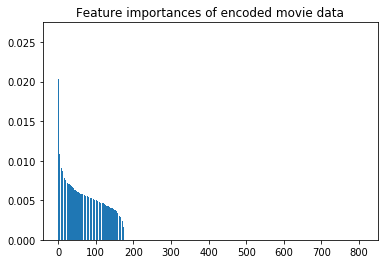
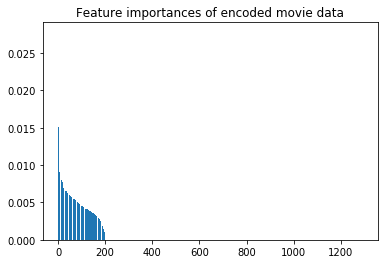
Updating film success writeup

diff --git a/_posts/insights/2019-08-05-Predicting-Film-Success.md b/_posts/insights/2019-08-05-Predicting-Film-Success.md
@@ -14,6 +14,7 @@ I trained a model on a randomized 90% of the movies, and then tested it on the r
 
 * **It was a simple challenge to get a very good prediction of film revenue**. R^2 = 0.77. In simple terms, this is not a perfect prediction, but very good. Certainly good enough for a cinema to decide ahead of time whether to show a film for an extended period of time, for instance.
 * **It was much more difficult to predict film rating**, but I could do a fair bit better than if I had just predicted an average rating for each movie, getting an R^2 of 0.53.
+* Film crew, while initially discarded, turned out to be the difference in a bad and a good film rating prediction. Crew members are more important to both the revenue prediction and rating predictio models than cast. 
 * I had some fun, too. Scroll down for a **list of actors most associated with high rated and top grossing films**.
 
 ![Revenue predictions](../images/insights/predicting_film_success_2019_08_05/revenue_predictions.png "Revenue predictions")
@@ -99,35 +100,33 @@ An output from the XGBoost library provides the importance of variables it uses 
 
 ![Rating feature importances](../images/insights/predicting_film_success_2019_08_05/feature_importances_rating.png "Rating feature importances")
 
-Here, we can see only around 180 of the input variables held any importance at all. Ther rest were essentially discarded by the algorithm. That's ok! In future, I would just run the variables through an analysis ([LDA](https://en.wikipedia.org/wiki/Latent_Dirichlet_allocation)
+Here, we can see only around 200 of the input variables held any importance at all. Ther rest were essentially discarded by the algorithm. That's ok! In future, I would just run the variables through an analysis ([LDA](https://en.wikipedia.org/wiki/Latent_Dirichlet_allocation)
 ?) in advance to pick out those with no correlation to film rating.
 
-In text form, the variables most associated with film rating were as follows. _Disclaimer: These can just as well be NEGATIVELY affecting the rating, as a cynic might pick up from a couple of the names (Romance, witch, Constantin Film Produktion). The algorithm just returns the ones with the largest effect on its predictor._
-
-I am still stumped by the strong link with the "father son relationship" keyword! If anyone has a good explanation, please email me!
+In text form, the variables most associated with film rating were as follows. _Disclaimer: These can just as well be NEGATIVELY affecting the rating, as a cynic might pick up from a couple of the names (teenager, horror). The algorithm just returns the ones with the largest effect on its predictor._
 
 ~~~~
-('father son relationship', 0.026174808)
-('independent film', 0.02035883)
-('Fox Searchlight Pictures', 0.019562881)
-('Michael Madsen', 0.01150904)
-('remake', 0.010837264)
-('Fantasy', 0.010430015)
-('Elijah Wood', 0.010411793)
-('UK Film Council', 0.009918339)
-('Canal+', 0.009511254)
-('Millennium Films', 0.009015981)
-('Romance', 0.0089491205)
-('Runtime', 0.008907374)
-('witch', 0.0087549)
-('Constantin Film Produktion', 0.008523767)
-('Foreign', 0.008085604)
-('Film budget', 0.007986463)
-('Day of the year', 0.0078098746)
-('paris', 0.007778621)
-('Pixar Animation Studios', 0.00775067)
-('Vince Vaughn', 0.007628271)
-('Luke Wilson', 0.0075204046)
+('Drama', 0.02771771)
+('Film runtime', 0.017870583) - !
+('Horror', 0.015099976)
+('Animation', 0.010213515)
+('John Lasseter', 0.0099559575) - of Pixar fame
+('family', 0.009091541)
+('Comedy', 0.009024642)
+('Harvey Weinstein', 0.009003568)
+('Whoopi Goldberg', 0.008995796) - ?!
+('Bill Murray', 0.008862046)
+('Action', 0.008832617)
+('Documentary', 0.008824027)
+('Morgan Creek Productions', 0.008456202)
+('Franchise Pictures', 0.008374982)
+('Hans Zimmer', 0.008047262)
+('DreamWorks Animation', 0.007945064)
+('hospital', 0.007892966)
+('Janet Hirshenson', 0.007849025)
+('Jason Friedberg', 0.007827318)
+('en', 0.0077783377) - English movies
+('teenager', 0.0077319876)
 ~~~~
 
 Predicting film revenue - an easier task
@@ -148,32 +147,30 @@ What are the variables most associated with film **revenue**?
 ------
 This list will be less of a surprise. Again, though, the same disclaimer applies. Variables can be negatively affecting revenue, and this model is not perfect. The list confirms the strong connection between budget and revenue. After all, why would one be making films if you did not get return on your investment? 
 
-Unsurprisingly, superhero movies and pixar movies make a strong appearance here, with their keywords, studios, genres and actors dominating the list. Note - this list excludes top-contributing crew, as I made the list before including crew members as input.
-
-Surprisingly, 'dying and death.'
+Unsurprisingly, superhero movies and pixar movies make a strong appearance here, with their keywords, studios, genres and crew dominating the list.
 
 ~~~~
-('Film budget', 0.044391543)
-('Robert Downey Jr.', 0.027033819)
-('Pixar Animation Studios', 0.026760902)
-('superhero', 0.025424734)
-('Judi Dench', 0.022775456)
-('Zoe Saldana', 0.018396903)
-('3d', 0.017599344)
-('Adventure', 0.015867993)
-('based on comic book', 0.015653472)
-('Dune Entertainment', 0.01459572)
-('suspense', 0.014268756)
-('duringcreditsstinger', 0.0127963945)
-('Frank Welker', 0.012037063)
-('dying and death', 0.011989311) - ?!
-('Columbia Pictures', 0.011956881)
-('Imagine Entertainment', 0.011694607)
-('Cate Blanchett', 0.011441057)
-('History', 0.011275761)** - negatively associated?
-('Fantasy', 0.011264136)
-('Paul Bettany', 0.01095041)
-('DreamWorks Animation', 0.010652226)
+('Denny Caira', 0.037734445)
+('Film Budget', 0.03122561)
+('Adventure', 0.025690554)
+('James Cameron', 0.024247296)
+('Pixar Animation Studios', 0.022682142)
+('David B. Nowell', 0.022539908)
+('marvel comic', 0.022318095)
+('Terry Claborn', 0.01921264)
+('John Williams', 0.015954955)
+('3d', 0.014985539)
+('Animation', 0.013459805)
+('John Ratzenberger', 0.013009616)
+('Christopher Boyes', 0.012793044)
+('Fantasy', 0.012175937)
+('Gwendolyn Yates Whittle', 0.011877648)
+('Lucasfilm', 0.011471849)
+('Christopher Lee', 0.011401703)
+('superhero', 0.010956859)
+('Jim Cummings', 0.010577998)
+('John Lasseter', 0.010427481)
+('Drama', 0.010378849)
 ~~~~
 
 Bonus: which actors are most associated with...
@@ -238,6 +235,11 @@ Note: for this, I ran the algorithm through **more actors** than before. That's 
 
 Obviously, Stan Lee does not make a movie producer rich. He simply cameod in all of the Marvel movies. This list shows correlation of actor with top-grossing movies more than it shows who causes a movie to do well.
 
+On including crew 
+------
+Initially, when building the models, I did not include crew members in the analysis. This was a massive oversight. Including just the top 200 producers, writers and directors in the model improved the R^2 on revenue prediction by from 0.68 to 0.77. 
+
+More impressively, this improved rating prediction from and R-squared of 0.19 to 0.53 - an astounding improvement just by adding one type of variable. More than 30% of the variance in rating is explained by crew members.
 
 Room for improvement
 ------
@@ -245,13 +247,11 @@ My method was not perfect. I discarded a fair amount of useful data, and took sh
 
 * Creating my own custom measure of success, 
 * Include ALL JSON data on actors, keywords, genres
-* Include _crew_. I have a feeling that I missed a trick when not predetermining that good crew (such as directors) are associated with good ratings.
-* Include year. 
 * Do a PCA or LDA to eliminate pointless variables
 * Run my XGBoost model through a more extreme parameter grid, picking even better parameters 
 * Explore a neural network solution, given the sheer size of this problem.
 
-Update: I included crew and film year, as mentioned above, and it improved the R^2 on revenue prediction by from 0.68 to 0.77 and on rating prediction by 0.19 to 0.53 - an astounding improvement for both! I have updated the rest of the writeup to reflect these numbers.
+
 
 Code and tools
 ------
